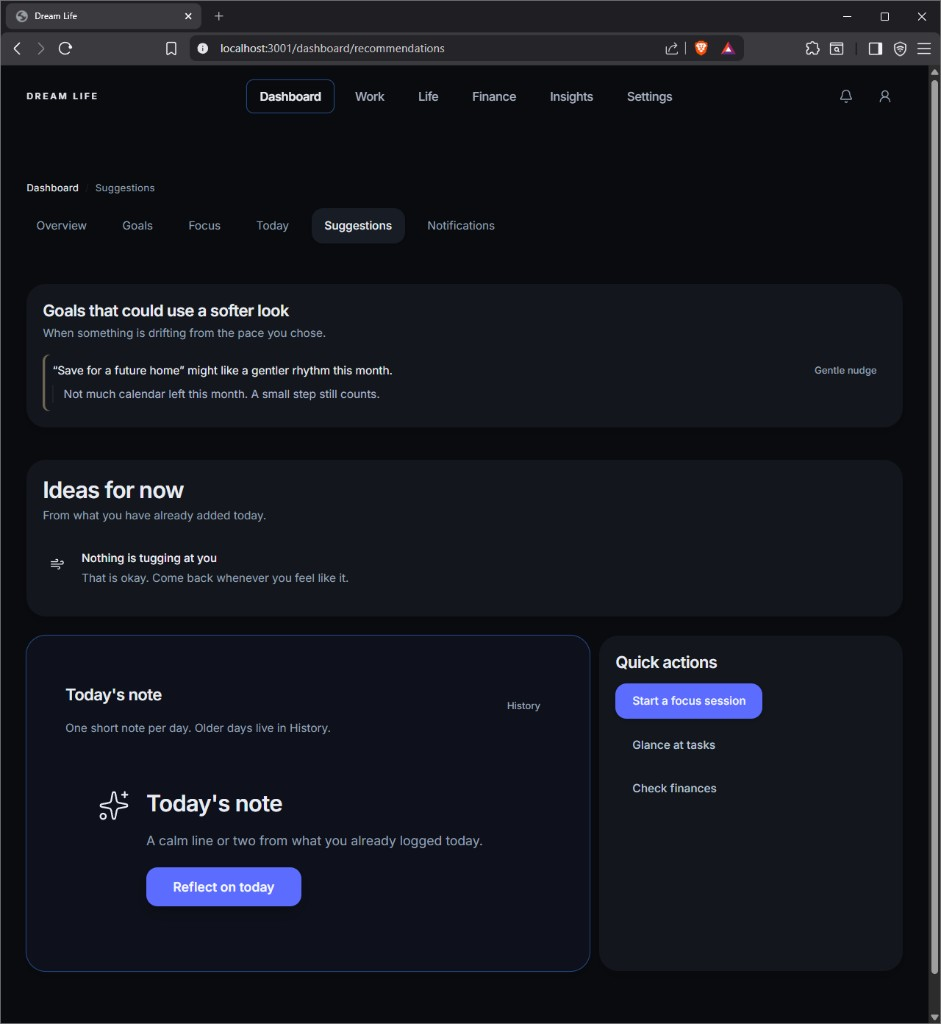
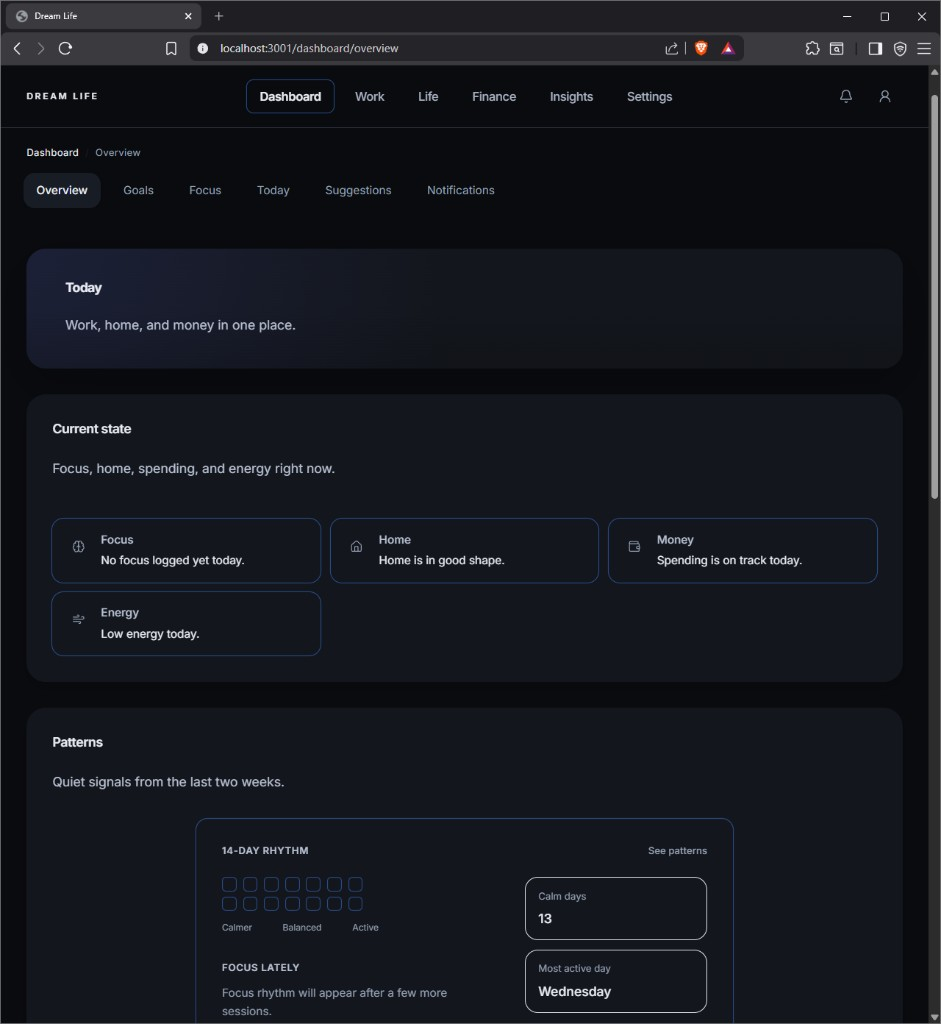
README screenshots: dashboard overview, goals, correct order

diff --git a/README.md b/README.md
@@ -63,25 +63,43 @@ Shared design tokens, theme presets, and an i18n foundation with section-based m
 
 ### Dashboard overview
 
+Today, current state, and a two-week patterns preview on the main overview.
+
 ![Dashboard overview](assets/screenshots/dashboard-overview.png)
 
+### Goals
+
+Goals tied to savings, home score, tasks, or focus, with progress from logged activity.
+
+![Goals](assets/screenshots/goals.png)
+
 ### Focus system
+
+Tasks, active focus session, and recent session history.
 
 ![Focus system](assets/screenshots/focus-system.png)
 
 ### Home care
 
+Cleaning zones, home health, and care streaks.
+
 ![Home care](assets/screenshots/home-care.png)
 
 ### Patterns
+
+Life rhythm grid and day summaries over a selected range.
 
 ![Patterns](assets/screenshots/patterns.png)
 
 ### Life flow
 
+Activity stream grouped by time of day.
+
 ![Life flow](assets/screenshots/life-flow.png)
 
 ### Weekly review
+
+Work, home, and money in one weekly summary with short observations.
 
 ![Weekly review](assets/screenshots/weekly-review.png)
 